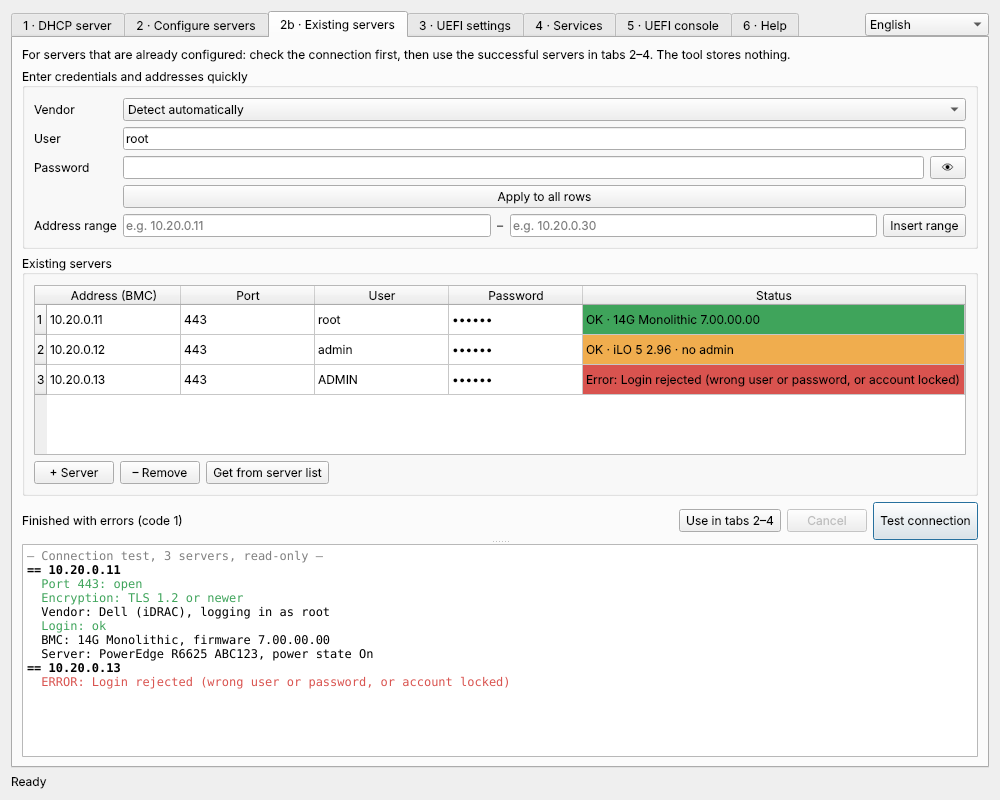
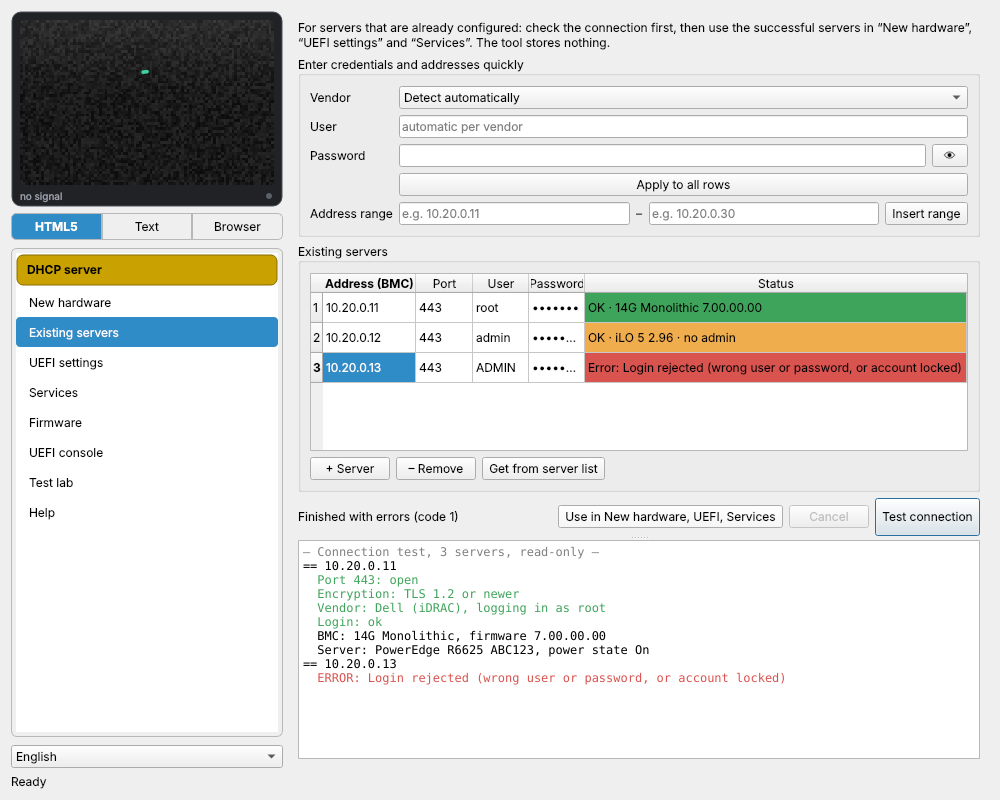
Screenshots für das Seitenmenü (v3.0) neu aufgenommen
Die bisherigen Bilder zeigten noch die alte Reiterleiste und ließen
Firmware und Testlabor aus. Fehlende Übersetzungen (Seriennummer,
Hersteller/Typ) ergänzt, die dabei als deutsche Reste auffielen.

Claude-Session: https://claude.ai/code/session_0199rf4A7FqQNgZQSj9mmL2W

diff --git a/bmc_steward/i18n.py b/bmc_steward/i18n.py
@@ -866,6 +866,16 @@ TR = {
 "Nom d'hôte",
 "Hostname"
 ],
+"Seriennummer": [
+"Serial number",
+"Numéro de série",
+"Säriänummer"
+],
+"Hersteller/Typ": [
+"Vendor/model",
+"Fabricant/modèle",
+"Harschteller/Typ"
+],
 "Keine gültige IPv4-Adresse": [
 "Not a valid IPv4 address",
 "Adresse IPv4 non valide",
